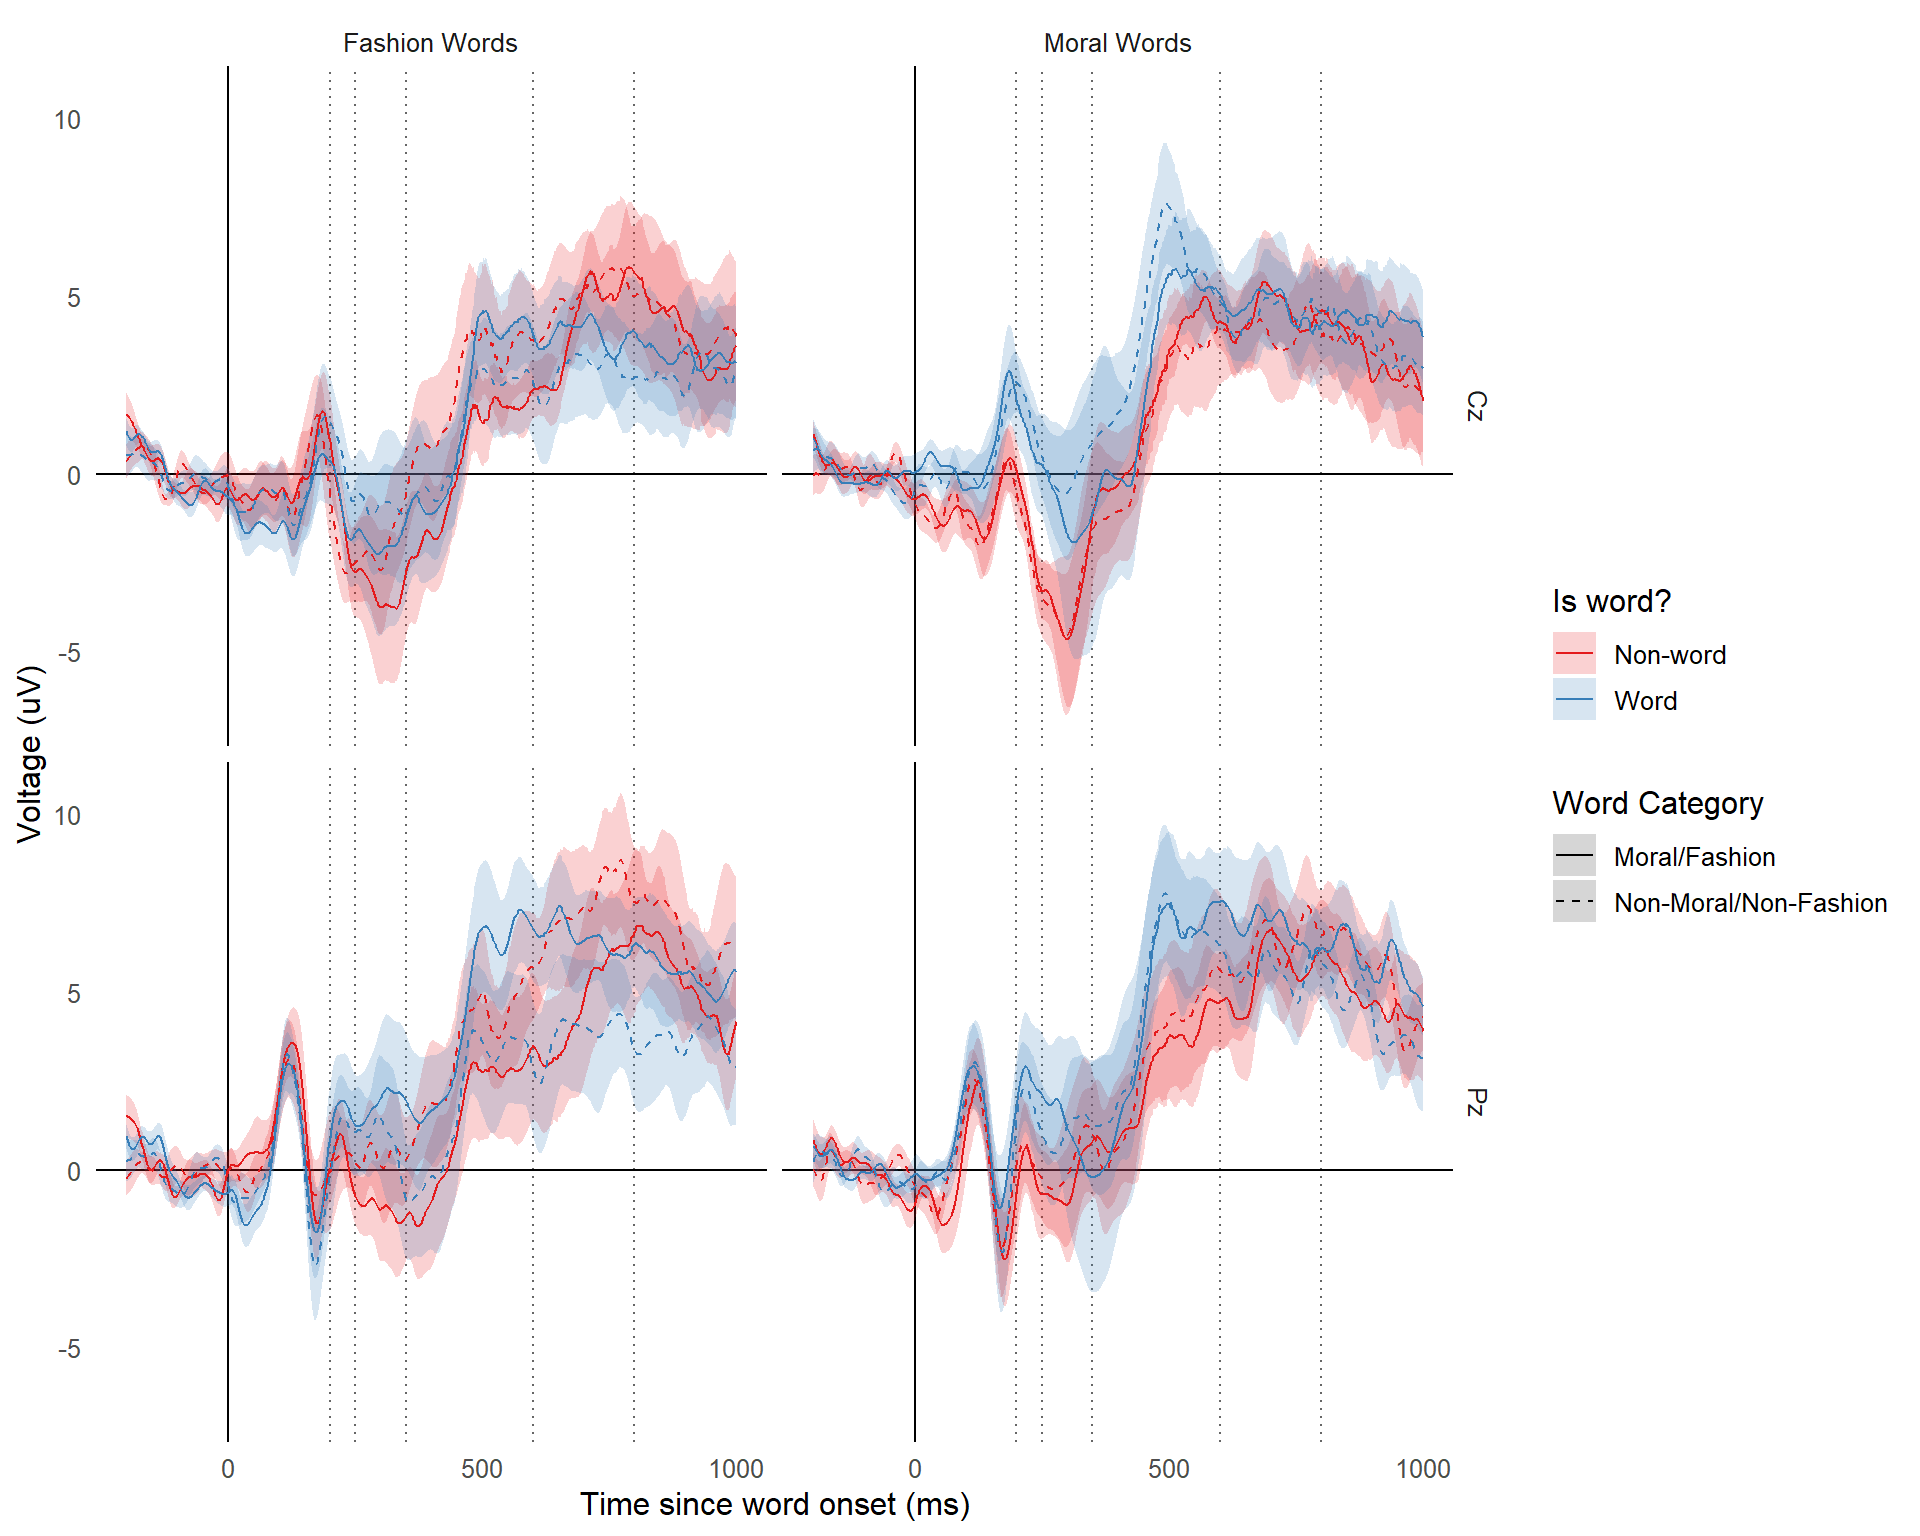
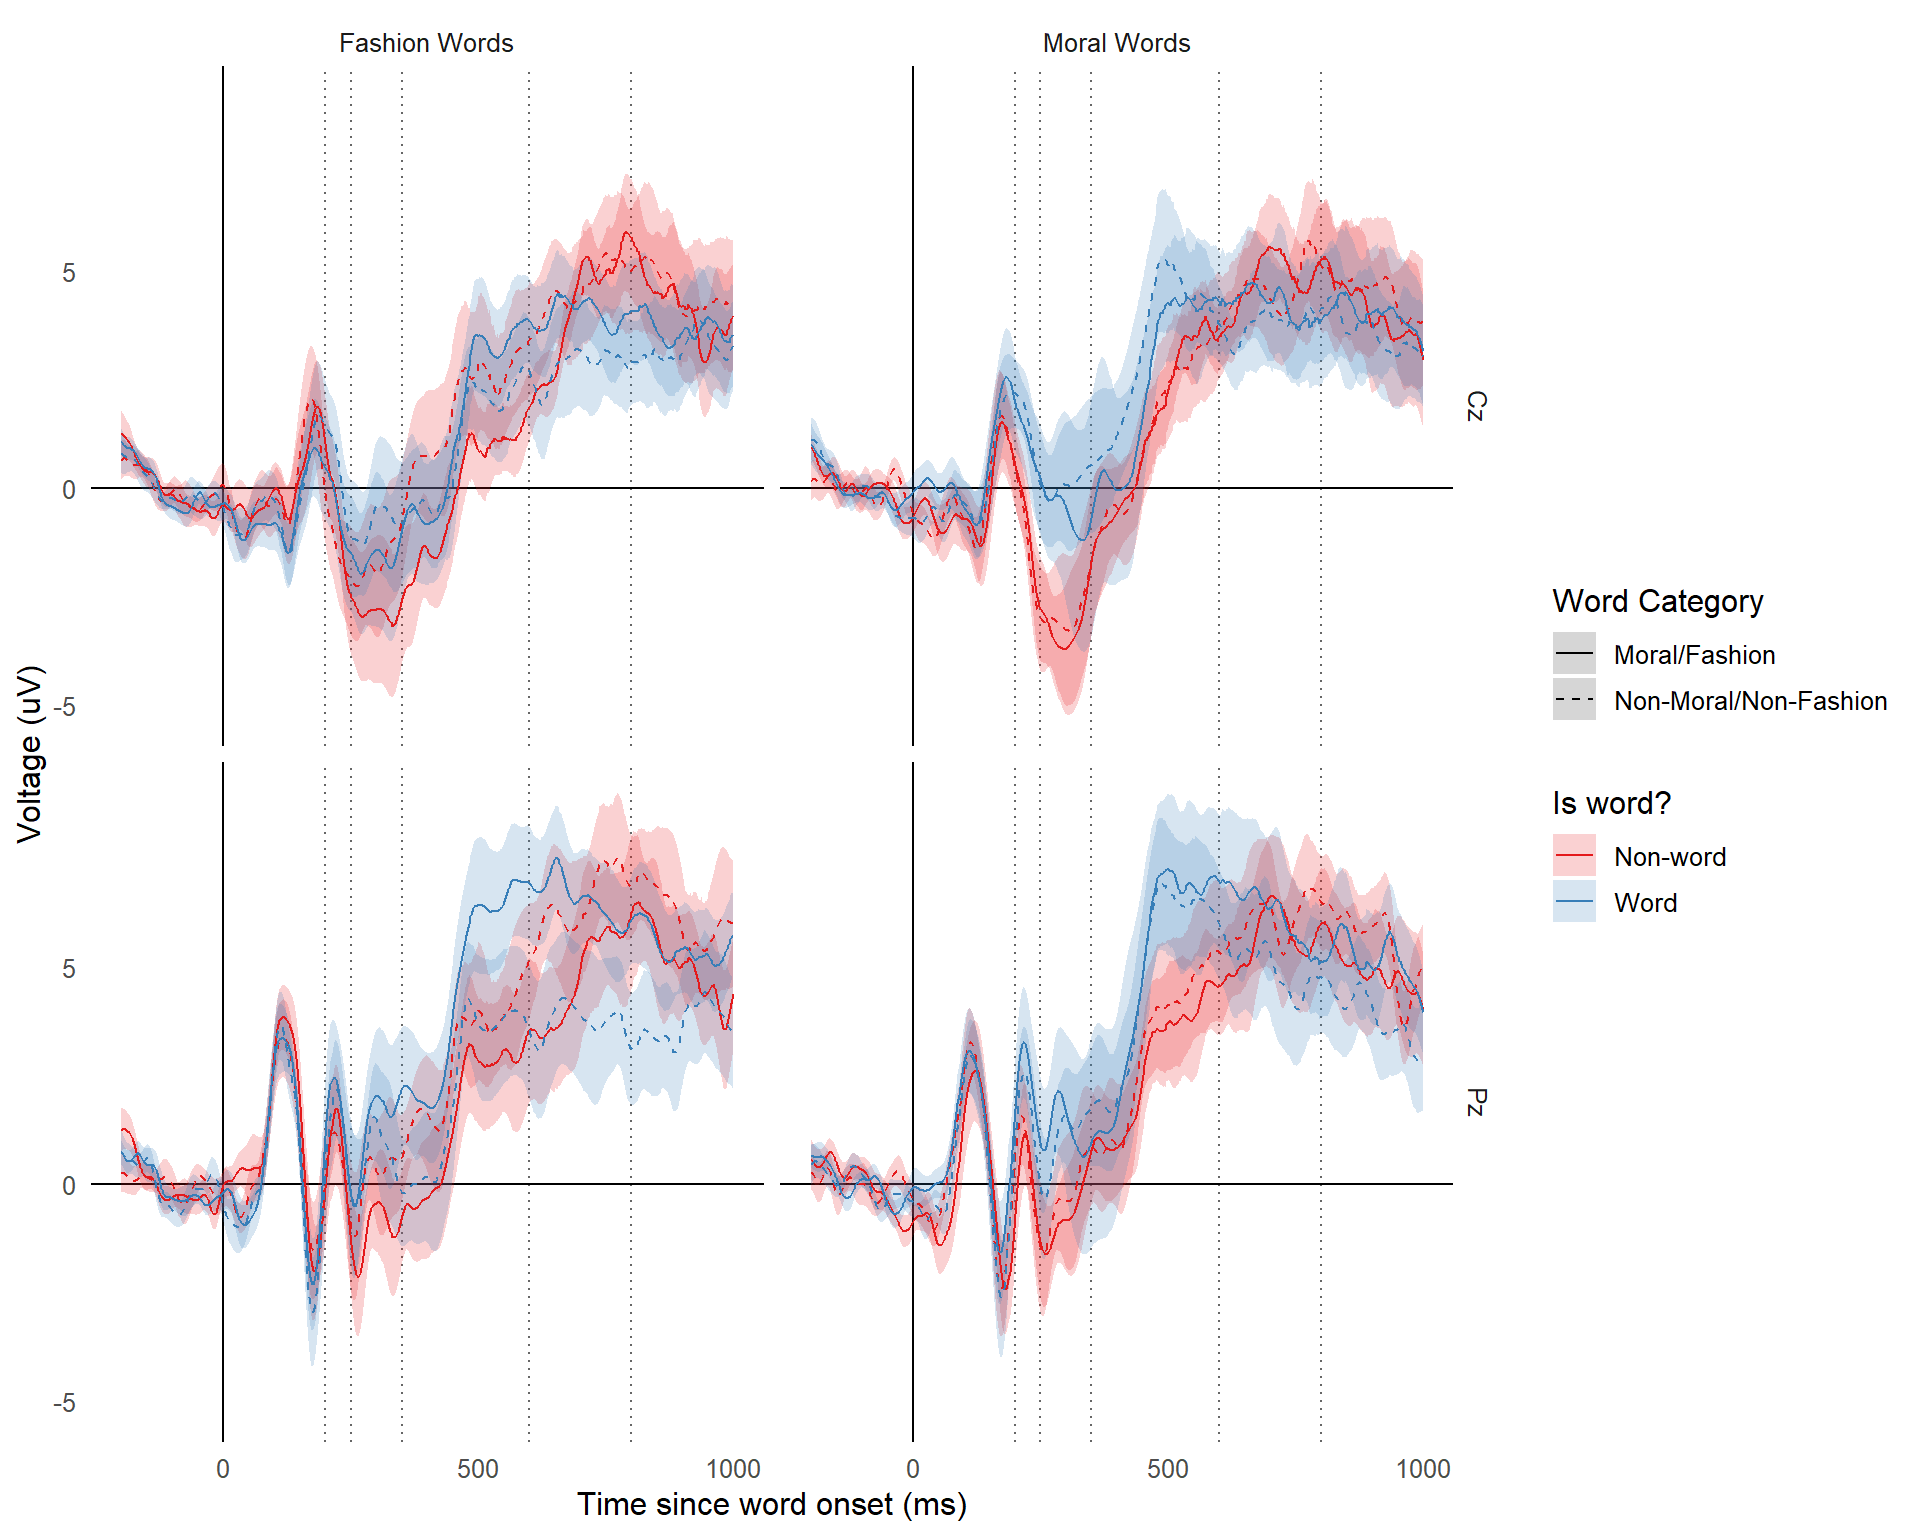
update to 16 subjects

diff --git a/manuscript.html b/manuscript.html
@@ -132,7 +132,7 @@ ul.task-list li input[type="checkbox"] {
 <h3 class="anchored" data-anchor-id="methods-1">Methods</h3>
 <section id="participants-1" class="level4">
 <h4 class="anchored" data-anchor-id="participants-1">Participants</h4>
-<p>12 subjects participated in the study. After applying the exclusion criteria, 11 subjects remain. 1 subjects were excluded for receiving fashion words twice due to a technical error, 0 subjects were excluded for having poor EEG recordings, 0 subjects were excluded for having a non-response rate greater than 50%, and 0 subjects were excluded for having a non-word response rate greater than 90%.</p>
+<p>16 subjects participated in the study. After applying the exclusion criteria, 15 subjects remain. 1 subjects were excluded for receiving fashion words twice due to a technical error, 0 subjects were excluded for having poor EEG recordings, 0 subjects were excluded for having a non-response rate greater than 50%, and 0 subjects were excluded for having a non-word response rate greater than 90%.</p>
 </section>
 </section>
 <section id="results-1" class="level3">
